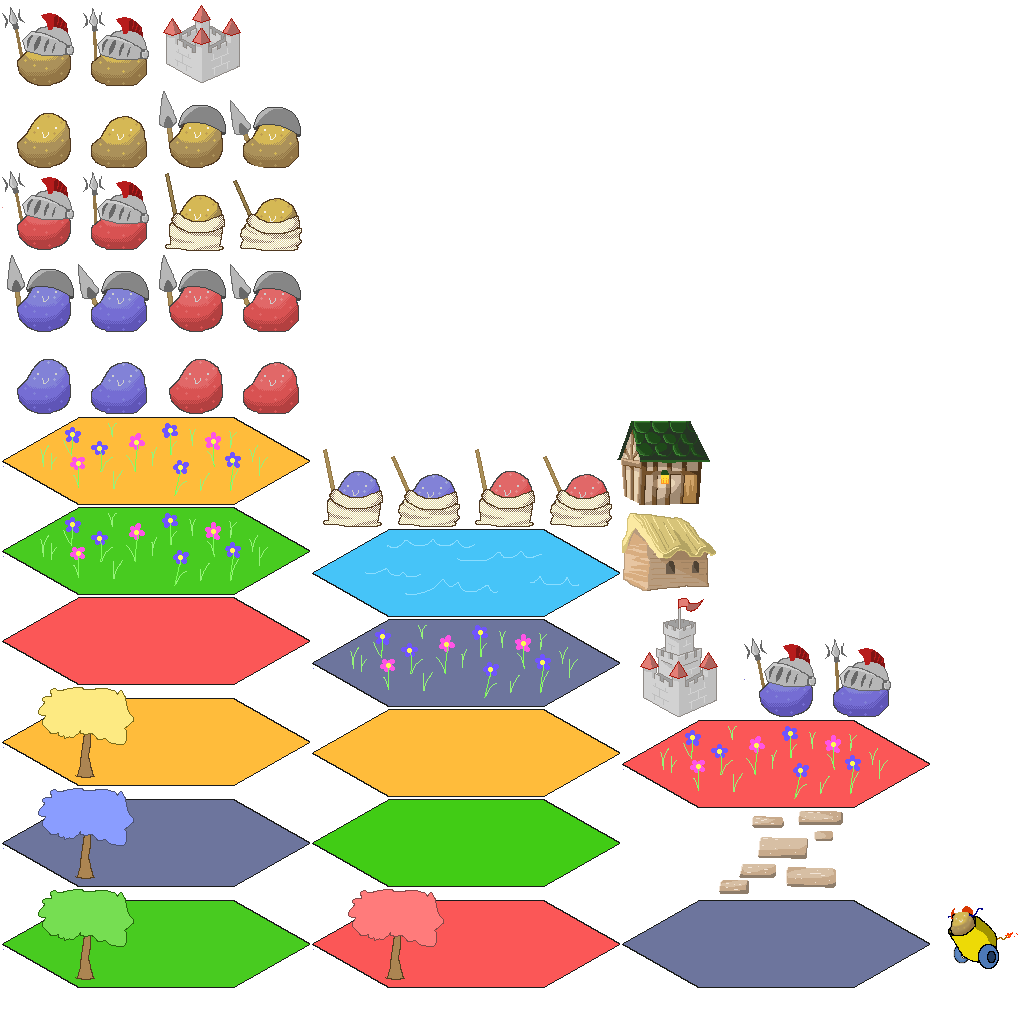
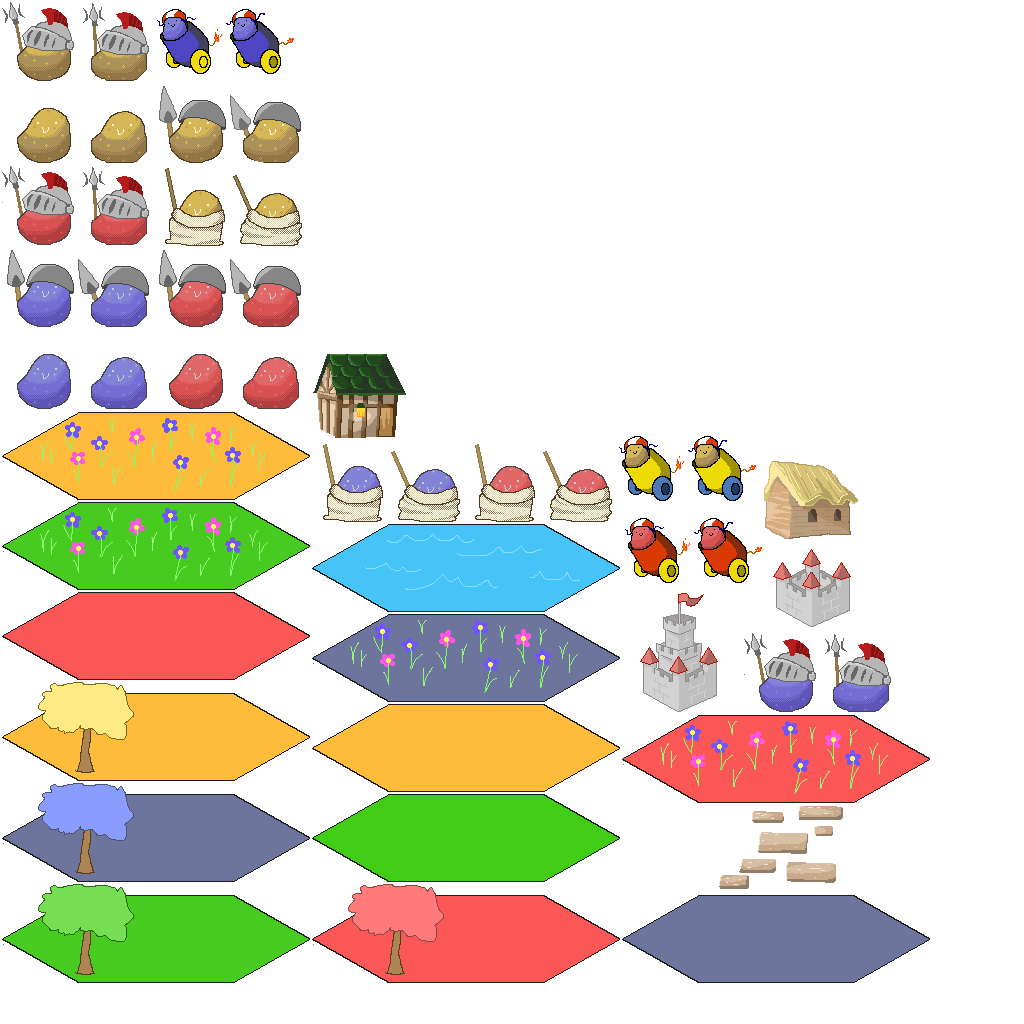
Added cannon unit

Changed region(s): [[0.0, 0.0, 0.9062, 0.9688], [0.875, 0.875, 1.0, 0.9688], [0.25, 0.6875, 0.3438, 0.75]]

diff --git a/core/src/com/potatoes/cultivation/gameactors/ActorAssets.java b/core/src/com/potatoes/cultivation/gameactors/ActorAssets.java
@@ -22,31 +22,37 @@ public class ActorAssets {
 		Animation potato_yellow_infantry = newAnimation(mySprites.createSprite("potato_yellow_infantry"), 1, 2, 0.5f);
 		Animation potato_yellow_soldier = newAnimation(mySprites.createSprite("potato_yellow_soldier"), 1, 2, 0.5f);
 		Animation potato_yellow_knight = newAnimation(mySprites.createSprite("potato_yellow_knight"), 1, 2, 0.5f);
+		Animation potato_yellow_cannon = newAnimation(mySprites.createSprite("potato_yellow_cannon"), 1, 2, 0.2f);
 		
 		Animation potato_red = newAnimation(mySprites.createSprite("potato_red"), 1, 2, 0.5f);
 		Animation potato_red_infantry = newAnimation(mySprites.createSprite("potato_red_infantry"), 1, 2, 0.5f);
 		Animation potato_red_soldier = newAnimation(mySprites.createSprite("potato_red_soldier"), 1, 2, 0.5f);
 		Animation potato_red_knight = newAnimation(mySprites.createSprite("potato_red_knight"), 1, 2, 0.5f);
+		Animation potato_red_cannon = newAnimation(mySprites.createSprite("potato_red_cannon"), 1, 2, 0.2f);
 		
 		Animation potato_purple = newAnimation(mySprites.createSprite("potato_purple"), 1, 2, 0.5f);
 		Animation potato_purple_infantry = newAnimation(mySprites.createSprite("potato_purple_infantry"), 1, 2, 0.5f);
 		Animation potato_purple_soldier = newAnimation(mySprites.createSprite("potato_purple_soldier"), 1, 2, 0.5f);
 		Animation potato_purple_knight = newAnimation(mySprites.createSprite("potato_purple_knight"), 1, 2, 0.5f);
+		Animation potato_purple_cannon = newAnimation(mySprites.createSprite("potato_purple_cannon"), 1, 2, 0.2f);
 		
 		stringToAnimation.put("potato_yellow_peasant", potato_yellow);
 		stringToAnimation.put("potato_yellow_infantry", potato_yellow_infantry);
 		stringToAnimation.put("potato_yellow_soldier", potato_yellow_soldier);
 		stringToAnimation.put("potato_yellow_knight", potato_yellow_knight);
+		stringToAnimation.put("potato_yellow_cannon", potato_yellow_cannon);
 		
 		stringToAnimation.put("potato_red_peasant", potato_red);
 		stringToAnimation.put("potato_red_infantry", potato_red_infantry);
 		stringToAnimation.put("potato_red_soldier", potato_red_soldier);
 		stringToAnimation.put("potato_red_knight", potato_red_knight);
+		stringToAnimation.put("potato_red_cannon", potato_red_cannon);
 		
 		stringToAnimation.put("potato_purple_peasant", potato_purple);
 		stringToAnimation.put("potato_purple_infantry", potato_purple_infantry);
 		stringToAnimation.put("potato_purple_soldier", potato_purple_soldier);
 		stringToAnimation.put("potato_purple_knight", potato_purple_knight);
+		stringToAnimation.put("potato_purple_cannon", potato_purple_cannon);
 		
 		AtlasRegion hex_grass = mySprites.findRegion("grass");
 		AtlasRegion hex_sea = mySprites.findRegion("tile_sea");

diff --git a/core/src/com/potatoes/cultivation/stages/HUD2.java b/core/src/com/potatoes/cultivation/stages/HUD2.java
@@ -354,6 +354,16 @@ public class HUD2 extends Stage {
 				}
 			});
 			
+			cannoneer.addListener(new ChangeListener(){
+				@Override
+				public void changed(ChangeEvent event, Actor actor) {
+					System.out.println("cannon clicked");
+					GameAction.UpgradePotatoAction gameAction = new GameAction.UpgradePotatoAction(myPotato.getUnit(), UnitType.Cannon);
+					gameApp.client.sendActions(gameAction);
+					cm.reset();
+				}
+			});
+			
 			upgrades.setVisible(false);
 			
 			this.addActor(topLevel);
